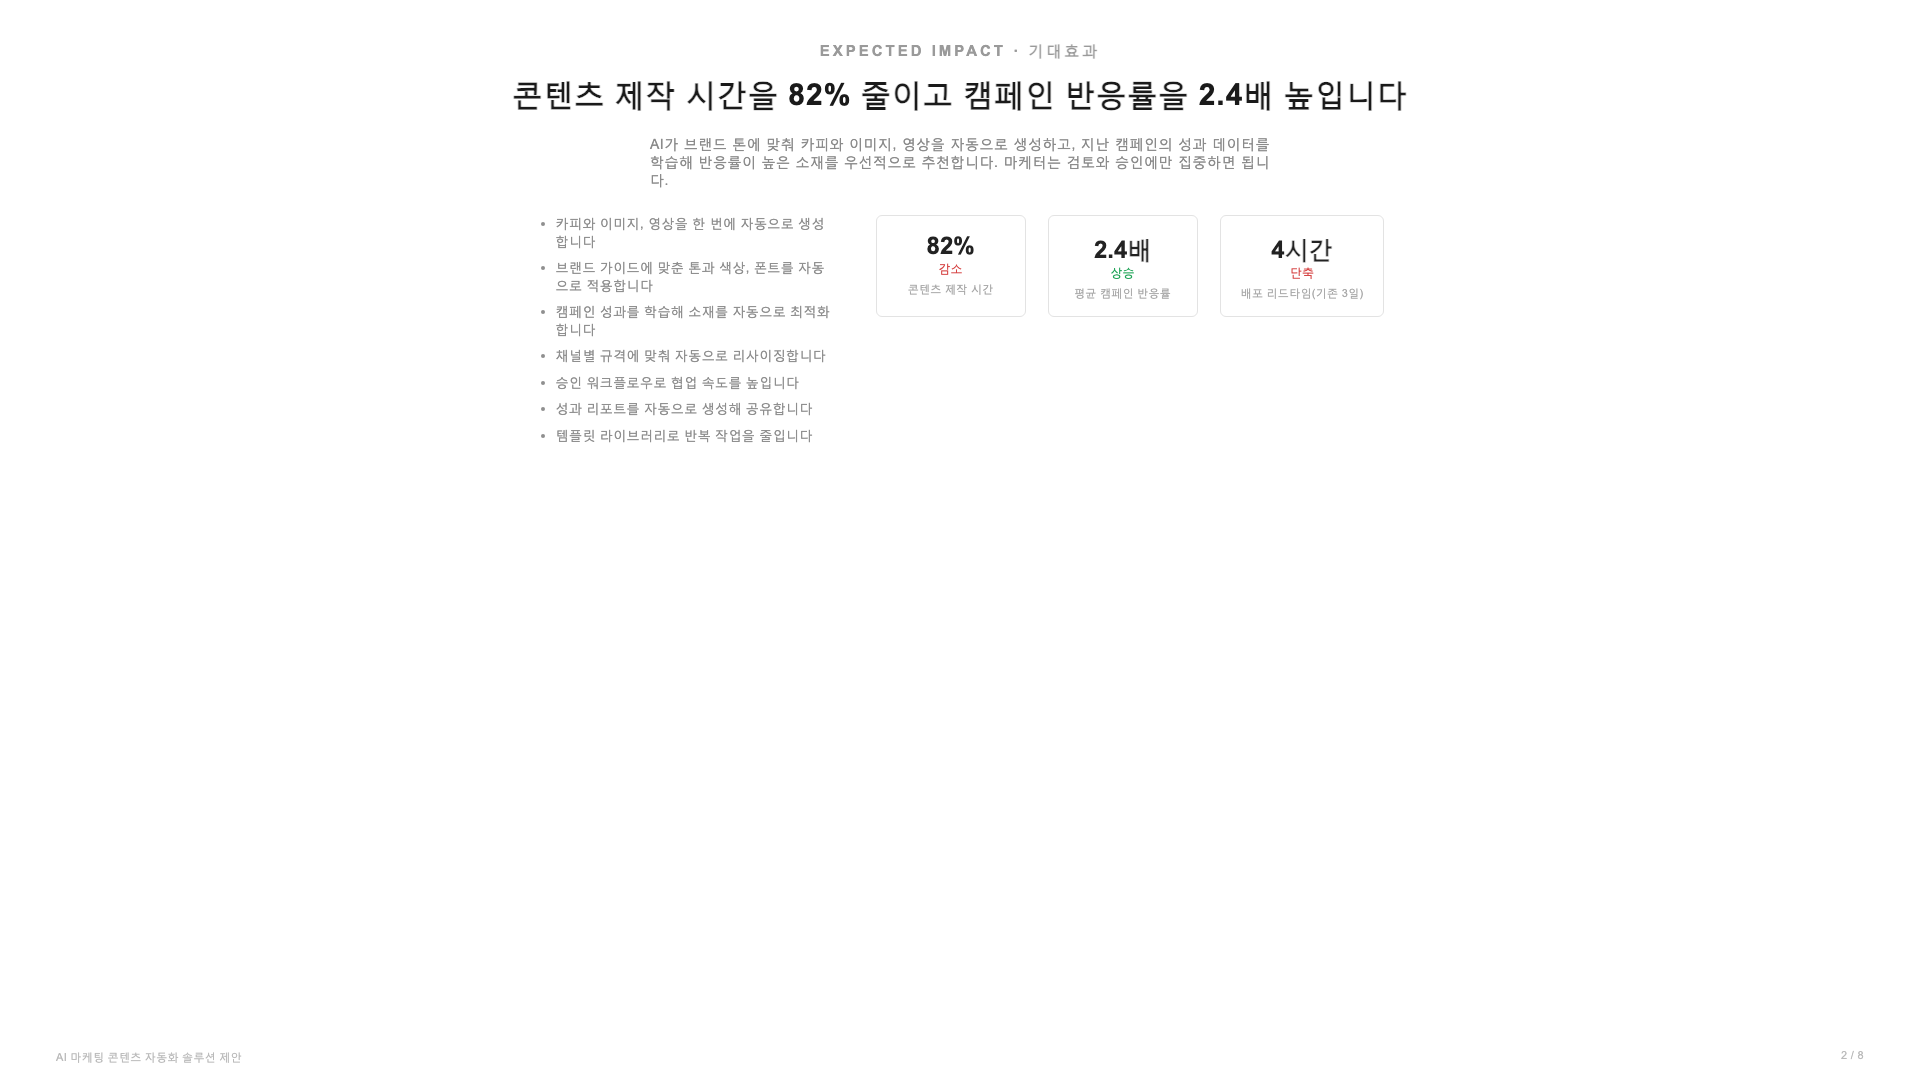
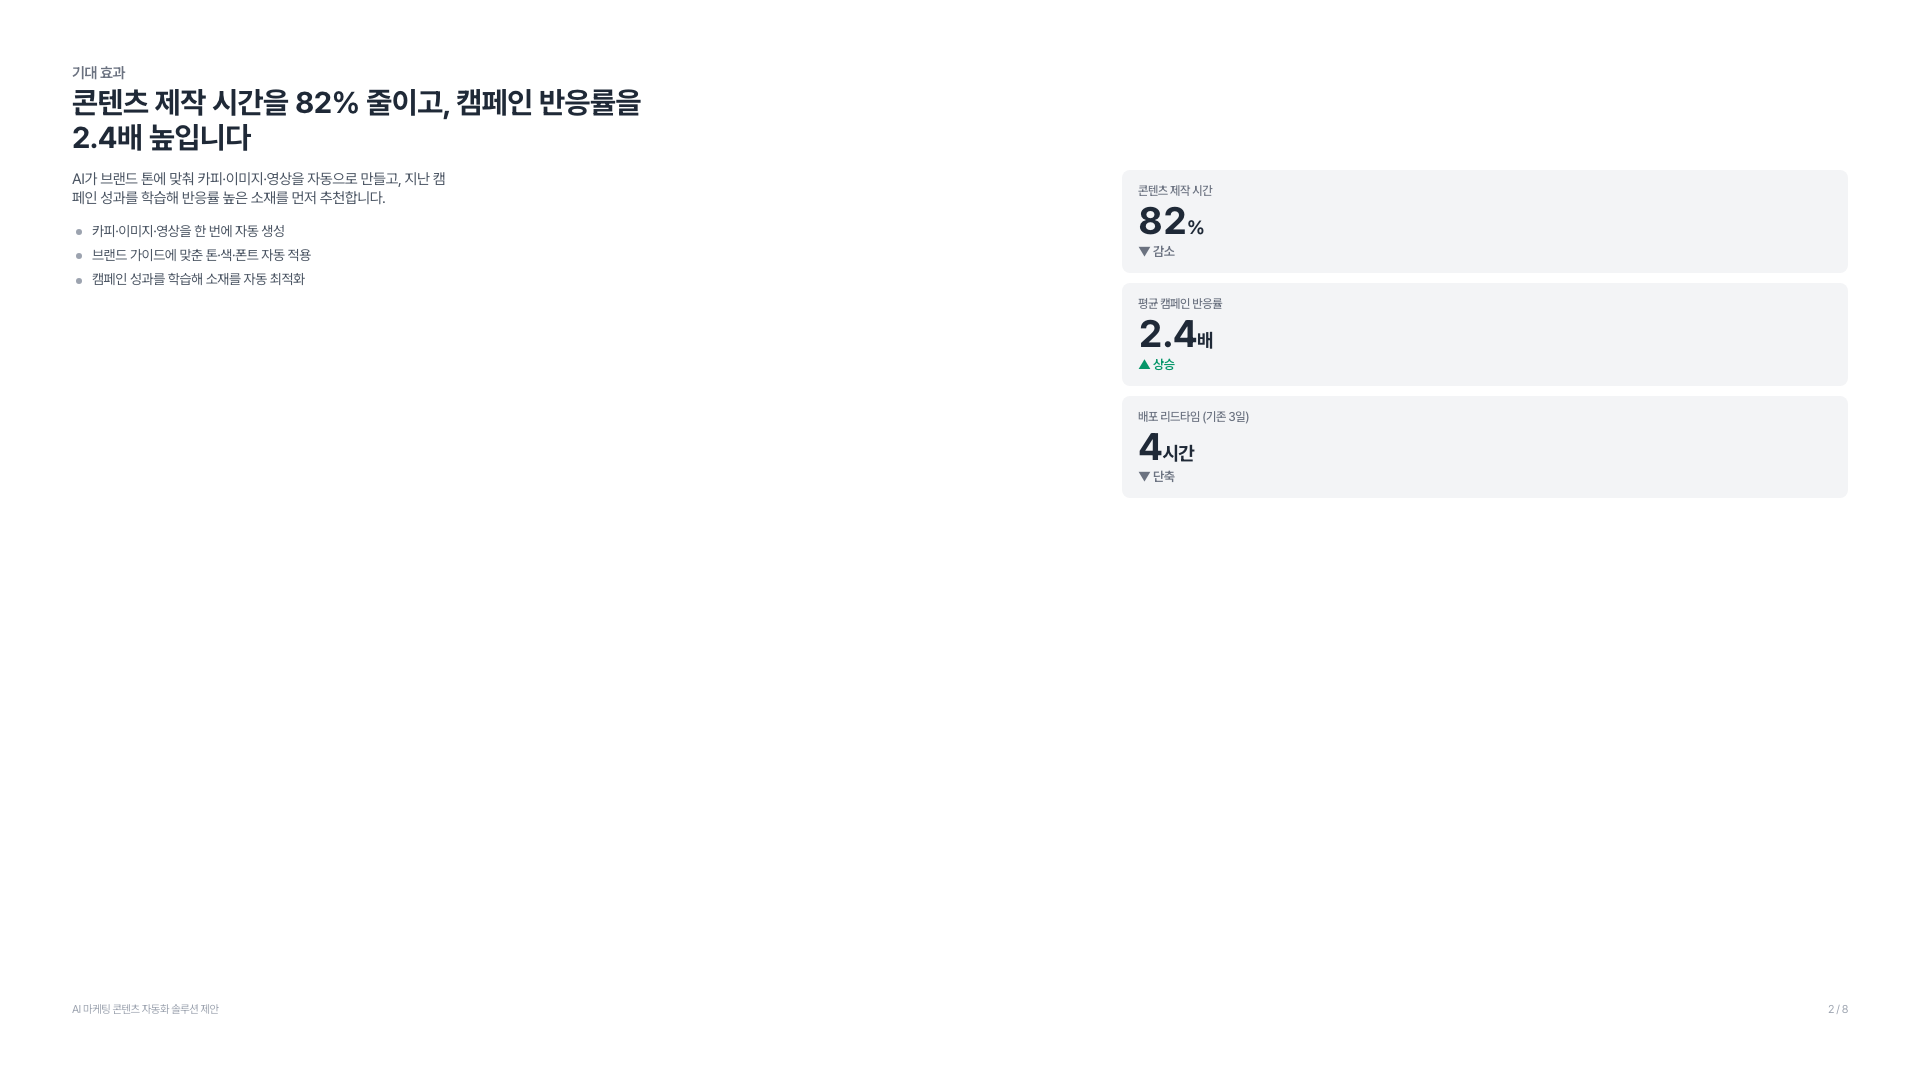
docs: make before slide realistic (subtle flaws, not a caricature)
피드백 반영 — "어색한 디자인"은 디자인이 안 된 게 아니라 미묘하게 틀어진 것.
before를 after와 동일 레이아웃·폰트(Pretendard)·색으로 두고, 오직 네 가지만 어긋나게:
요소 간 간격 촘촘 · 행간 1.15~1.25 · 자간 −0.03em · 위계 뭉갬(제목 30px/본문 15px).
README 비교 표·캡션도 간격·행간·자간·위계 프레이밍으로 갱신.

diff --git a/examples/proposal/before.html b/examples/proposal/before.html
@@ -2,97 +2,116 @@
 <html lang="ko">
 <head>
 <meta charset="UTF-8" />
-<title>제안서 슬라이드 — Before (외국 템플릿에 한글만 부은 상태)</title>
+<title>제안서 슬라이드 — Before (제대로 만든 듯하지만 미묘하게 어색한 상태)</title>
+<link rel="stylesheet"
+  href="https://cdn.jsdelivr.net/gh/orioncactus/pretendard@v1.3.9/dist/web/variable/pretendardvariable.min.css" />
 <style>
-  /* ⚠️ 일부러 "외국 템플릿에 한글만 부은" 흔한 실패 상태를 재현한 슬라이드.
-     korean-proposal-slides §7 실패 카탈로그 위반: 작은 본문 · 성긴 자간 ·
-     중앙/양끝 정렬 · 좁은 줄간격 · 회색 본문 · keep-all 부재(어절 꺾임) ·
-     불릿 과다 · 작은 KPI · 가장자리에 붙은 여백. */
+  /* ⚠️ 레이아웃·폰트·색은 멀쩡한데 "미묘하게 어색한" 상태를 재현.
+     실무에서 흔한 4가지 문제만 의도적으로 넣음:
+       ① 텍스트 요소 사이 간격이 너무 촘촘   ② 행간(line-height)이 좁음
+       ③ 자간(letter-spacing)이 음수로 좁음   ④ 위계가 뭉개져 본문·라벨이 너무 작음
+     ↔ after.html 과 레이아웃/폰트/내용은 동일. 오직 간격·행간·자간·위계만 다르다. */
+  :root {
+    --font-sans: "Pretendard Variable", Pretendard, -apple-system, "Apple SD Gothic Neo", "Noto Sans KR", sans-serif;
+    --gutter: 24px;
+  }
   * { margin: 0; padding: 0; box-sizing: border-box; }
   body { background: #0b0b0c; }
+
   .stage {
     width: 1920px; height: 1080px; position: relative;
     background: #ffffff;
-    /* ❌ 라틴용 시스템 폰트 — 한글 전용 폰트 스택 없음 */
-    font-family: Arial, "Helvetica Neue", "Malgun Gothic", sans-serif;
-    /* ❌ 세이프 마진 무시 — 콘텐츠가 가장자리에 바짝 */
-    padding: 40px 56px;
-    /* ❌ 전체 중앙 정렬 */
-    text-align: center;
-    color: #333;
+    font-family: var(--font-sans);
+    color: #111111;
+    padding: 64px 72px;               /* 마진은 그럭저럭이지만 아래 요소 간격이 촘촘 */
+    display: flex; flex-direction: column;
+    -webkit-font-smoothing: antialiased;
+    letter-spacing: -0.03em;          /* ③ 한글에 음수 자간 — 글자가 서로 붙어 답답 */
     overflow: hidden;
   }
 
-  /* ❌ 라틴식 대문자 eyebrow + 과대 자간 */
-  .eyebrow {
-    font-size: 15px; font-weight: 700; color: #9a9a9a;
-    letter-spacing: 3px; text-transform: uppercase; margin-bottom: 18px;
+  /* ④ 위계 뭉갬: eyebrow가 본문과 거의 같은 크기라 라벨로 안 읽힘 */
+  .eyebrow { font-size: 15px; font-weight: 600; color: #6B7280; }
+  /* ④ 제목이 30px — 본문(15px)의 2배뿐이라 위계 대비가 약함 · ② 행간 1.15로 답답 */
+  .title { font-size: 30px; font-weight: 700; line-height: 1.15; color: #1f2937; margin-top: 3px; max-width: 30ch; }
+
+  .body-grid { flex: 1; display: grid; grid-template-columns: repeat(12, 1fr); column-gap: var(--gutter); margin-top: 16px; align-items: start; }
+  .col-7 { grid-column: span 7; }
+  .col-5 { grid-column: span 5; }
+
+  /* ④ 본문 15px — 투사 슬라이드엔 너무 작음 · ② 행간 1.25 · 회색 */
+  .lead { font-size: 15px; font-weight: 400; line-height: 1.25; color: #4B5563; max-width: 42ch; }
+
+  /* ① 불릿 사이 간격 6px로 촘촘 · 14px 작은 글씨 · 행간 1.3 */
+  ul.bullets { list-style: none; margin-top: 14px; }
+  ul.bullets li {
+    position: relative; padding-left: 20px; margin-bottom: 6px;
+    font-size: 14px; line-height: 1.3; color: #4B5563;
   }
-  /* ❌ 제목 28px · 자간 1px · 줄간격 1.15 (뒷자리에서 작고 성김) */
-  .title {
-    font-size: 30px; font-weight: 800; color: #1a1a1a;
-    letter-spacing: 1px; line-height: 1.15; margin-bottom: 22px;
-  }
-  /* ❌ 본문 14px · 회색 · 양끝 정렬 · 자간 0.5px · 줄간격 1.3 */
-  .lead {
-    font-size: 14px; color: #8b8b8b; line-height: 1.3;
-    letter-spacing: 0.5px; text-align: justify;
-    max-width: 620px; margin: 0 auto 26px;
+  ul.bullets li::before {
+    content: ""; position: absolute; left: 4px; top: 0.55em;
+    width: 6px; height: 6px; border-radius: 50%; background: #9CA3AF;
   }
 
-  .cols { display: flex; gap: 40px; justify-content: center; align-items: flex-start; margin-top: 8px; }
+  /* ① 카드 패딩 14px·간격 10px로 촘촘 · ④ 수치 38px·라벨 12px로 위계 약함 */
+  .kpi-stack { display: flex; flex-direction: column; gap: 10px; }
+  .kpi-card { background: #F3F4F6; border-radius: 8px; padding: 14px 16px; }
+  .kpi-eyebrow { font-size: 12px; font-weight: 500; color: #6B7280; }
+  .kpi-metric { font-size: 38px; font-weight: 700; line-height: 1.1; margin: 2px 0 2px;
+    font-variant-numeric: tabular-nums; color: #1f2937; }
+  .kpi-metric .unit { font-size: 0.5em; font-weight: 700; }
+  .kpi-delta { font-size: 13px; font-weight: 600; }
+  .kpi-delta.up { color: #059669; }
+  .kpi-delta.down { color: #6B7280; }
 
-  /* ❌ 불릿 7개 · 13px · 회색 · 좁은 폭이라 한글 어절이 중간에서 꺾임(keep-all 없음) */
-  .bullets { list-style: disc; padding-left: 20px; text-align: left; max-width: 300px; }
-  .bullets li {
-    font-size: 13px; color: #8f8f8f; line-height: 1.35;
-    letter-spacing: 0.4px; margin-bottom: 9px;
-  }
-
-  /* ❌ KPI: 작은 수치 24px · delta는 색만(화살표·라벨 빈약) · 라벨 11px */
-  .kpis { display: flex; gap: 22px; }
-  .kpi { border: 1px solid #e3e3e3; border-radius: 6px; padding: 16px 20px; min-width: 150px; text-align: center; }
-  .kpi .num { font-size: 24px; font-weight: 700; color: #222; }
-  .kpi .delta { font-size: 12px; }
-  .kpi .delta.up { color: #22a559; }
-  .kpi .delta.down { color: #d64545; }
-  .kpi .lbl { font-size: 11px; color: #aaa; margin-top: 5px; letter-spacing: 0.3px; }
-
-  /* ❌ 푸터도 가장자리에 바짝, 회색 */
-  .footer {
-    position: absolute; left: 56px; right: 56px; bottom: 16px;
-    display: flex; justify-content: space-between;
-    font-size: 11px; color: #bbb; letter-spacing: 0.3px;
-  }
+  .footer { display: flex; justify-content: space-between; align-items: flex-end; margin-top: 12px; }
+  .caption { font-size: 11px; color: #9CA3AF; }
 </style>
 </head>
 <body>
   <div class="stage">
-    <div class="eyebrow">Expected Impact · 기대효과</div>
-    <div class="title">콘텐츠 제작 시간을 82% 줄이고 캠페인 반응률을 2.4배 높입니다</div>
-    <p class="lead">
-      AI가 브랜드 톤에 맞춰 카피와 이미지, 영상을 자동으로 생성하고, 지난 캠페인의 성과 데이터를
-      학습해 반응률이 높은 소재를 우선적으로 추천합니다. 마케터는 검토와 승인에만 집중하면 됩니다.
-    </p>
-    <div class="cols">
-      <ul class="bullets">
-        <li>카피와 이미지, 영상을 한 번에 자동으로 생성합니다</li>
-        <li>브랜드 가이드에 맞춘 톤과 색상, 폰트를 자동으로 적용합니다</li>
-        <li>캠페인 성과를 학습해 소재를 자동으로 최적화합니다</li>
-        <li>채널별 규격에 맞춰 자동으로 리사이징합니다</li>
-        <li>승인 워크플로우로 협업 속도를 높입니다</li>
-        <li>성과 리포트를 자동으로 생성해 공유합니다</li>
-        <li>템플릿 라이브러리로 반복 작업을 줄입니다</li>
-      </ul>
-      <div class="kpis">
-        <div class="kpi"><div class="num">82%</div><div class="delta down">감소</div><div class="lbl">콘텐츠 제작 시간</div></div>
-        <div class="kpi"><div class="num">2.4배</div><div class="delta up">상승</div><div class="lbl">평균 캠페인 반응률</div></div>
-        <div class="kpi"><div class="num">4시간</div><div class="delta down">단축</div><div class="lbl">배포 리드타임(기존 3일)</div></div>
+    <header>
+      <p class="eyebrow">기대 효과</p>
+      <h2 class="title">콘텐츠 제작 시간을 82% 줄이고, 캠페인 반응률을 2.4배 높입니다</h2>
+    </header>
+
+    <div class="body-grid">
+      <div class="col-7">
+        <p class="lead">
+          AI가 브랜드 톤에 맞춰 카피·이미지·영상을 자동으로 만들고, 지난 캠페인 성과를 학습해
+          반응률 높은 소재를 먼저 추천합니다.
+        </p>
+        <ul class="bullets">
+          <li>카피·이미지·영상을 한 번에 자동 생성</li>
+          <li>브랜드 가이드에 맞춘 톤·색·폰트 자동 적용</li>
+          <li>캠페인 성과를 학습해 소재를 자동 최적화</li>
+        </ul>
+      </div>
+
+      <div class="col-5">
+        <div class="kpi-stack">
+          <div class="kpi-card">
+            <p class="kpi-eyebrow">콘텐츠 제작 시간</p>
+            <p class="kpi-metric">82<span class="unit">%</span></p>
+            <p class="kpi-delta down">▼ 감소</p>
+          </div>
+          <div class="kpi-card">
+            <p class="kpi-eyebrow">평균 캠페인 반응률</p>
+            <p class="kpi-metric">2.4<span class="unit">배</span></p>
+            <p class="kpi-delta up">▲ 상승</p>
+          </div>
+          <div class="kpi-card">
+            <p class="kpi-eyebrow">배포 리드타임 (기존 3일)</p>
+            <p class="kpi-metric">4<span class="unit">시간</span></p>
+            <p class="kpi-delta down">▼ 단축</p>
+          </div>
+        </div>
       </div>
     </div>
+
     <div class="footer">
-      <span>AI 마케팅 콘텐츠 자동화 솔루션 제안</span>
-      <span>2 / 8</span>
+      <span class="caption">AI 마케팅 콘텐츠 자동화 솔루션 제안</span>
+      <span class="caption">2 / 8</span>
     </div>
   </div>
 </body>

diff --git a/examples/proposal/comparison.html b/examples/proposal/comparison.html
@@ -35,12 +35,12 @@
     <div class="col">
       <span class="tag before">✕ Before</span>
       <img class="shot" src="before.png" alt="before" />
-      <p class="cap">본문 <b>14px</b> · 회색 글씨 · 중앙/양끝 정렬 · <b>자간 0.5px</b> · 어절 중간 꺾임 · 불릿 7개 · 작은 KPI</p>
+      <p class="cap">본문 <b>15px</b> · 좁은 행간(1.15~1.25) · <b>음수 자간(−0.03em)</b> · 요소 간격 촘촘 · <b>약한 위계</b>(제목이 본문의 2배뿐)</p>
     </div>
     <div class="col">
       <span class="tag after">✓ After</span>
       <img class="shot" src="after.png" alt="after" />
-      <p class="cap">본문 <b>36px(18pt)</b> · #111 진한 글씨 · 좌측정렬 · <b>자간 0</b> · <b>keep-all</b> · 불릿 3개 · 대형 KPI 카드</p>
+      <p class="cap">본문 <b>36px(18pt)</b> · 행간 1.5 · <b>자간 0</b> · 넉넉한 요소 간격 · <b>뚜렷한 위계</b>(제목 64px) · 대형 KPI</p>
     </div>
   </div>
 </body>

diff --git a/README.md b/README.md
@@ -38,7 +38,8 @@ AI에게 통째로 심어 놨어요. 이제 여러분은 규칙을 몰라도, AI
 
 ## 📸 적용 예시 — Before / After
 
-백문이 불여일견. **똑같은 제안서 슬라이드**(같은 내용·같은 데이터)에 규칙만 적용한 결과예요.
+백문이 불여일견. **똑같은 제안서 슬라이드**(같은 내용·같은 데이터·같은 폰트·같은 레이아웃)에 규칙만 적용한 결과예요.
+어긋난 건 **거창한 게 아니라** — 요소 사이 간격, 행간·자간, 그리고 위계(글씨 크기 대비)예요.
 
 ![Before와 After 비교 — 같은 내용, 규칙만 적용](examples/proposal/comparison.png)
 
@@ -46,18 +47,17 @@ AI에게 통째로 심어 놨어요. 이제 여러분은 규칙을 몰라도, AI
 
 | | ✕ Before | ✓ After |
 |---|---|---|
-| 본문 글씨 | 14px (뒷자리에서 안 읽힘) | **36px (18pt)** |
-| 글자 색 | 흐린 회색 | 진한 먹색 (`#111`) |
-| 정렬 | 중앙·양끝 (들쭉날쭉) | 왼쪽 정렬 |
-| 자간 | 0.5px (성김) | 0 |
-| 줄바꿈 | 어절 중간에서 꺾임 | `keep-all` (단어 안 잘림) |
-| 정보량 | 불릿 7개 (과다) | 3개로 압축 |
-| 지표(KPI) | 작고 색만 | 대형 수치 + 화살표 |
+| 본문 크기 | 15px (투사 화면엔 너무 작음) | **36px (18pt)** |
+| 위계(대비) | 제목이 본문의 2배뿐 — 뭉갬 | 제목 64px · 본문 36px — 뚜렷 |
+| 행간(줄 간격) | 1.15~1.25 (답답) | 1.5 |
+| 자간 | −0.03em (글자 붙음) | 0 |
+| 요소 간 간격 | 촘촘 (숨 막힘) | 넉넉 (4·8 스케일) |
+| 지표(KPI) | 38px · 라벨 12px | **76px** · 큰 라벨 |
 
 <details>
 <summary>각 화면 크게 보기 (풀 1920×1080)</summary>
 
-**✕ Before — 외국 템플릿에 한글만 부은 상태**
+**✕ Before — 제대로 만든 듯하지만 간격·행간·자간·위계가 어긋난 상태**
 
 ![before](examples/proposal/before.png)
 